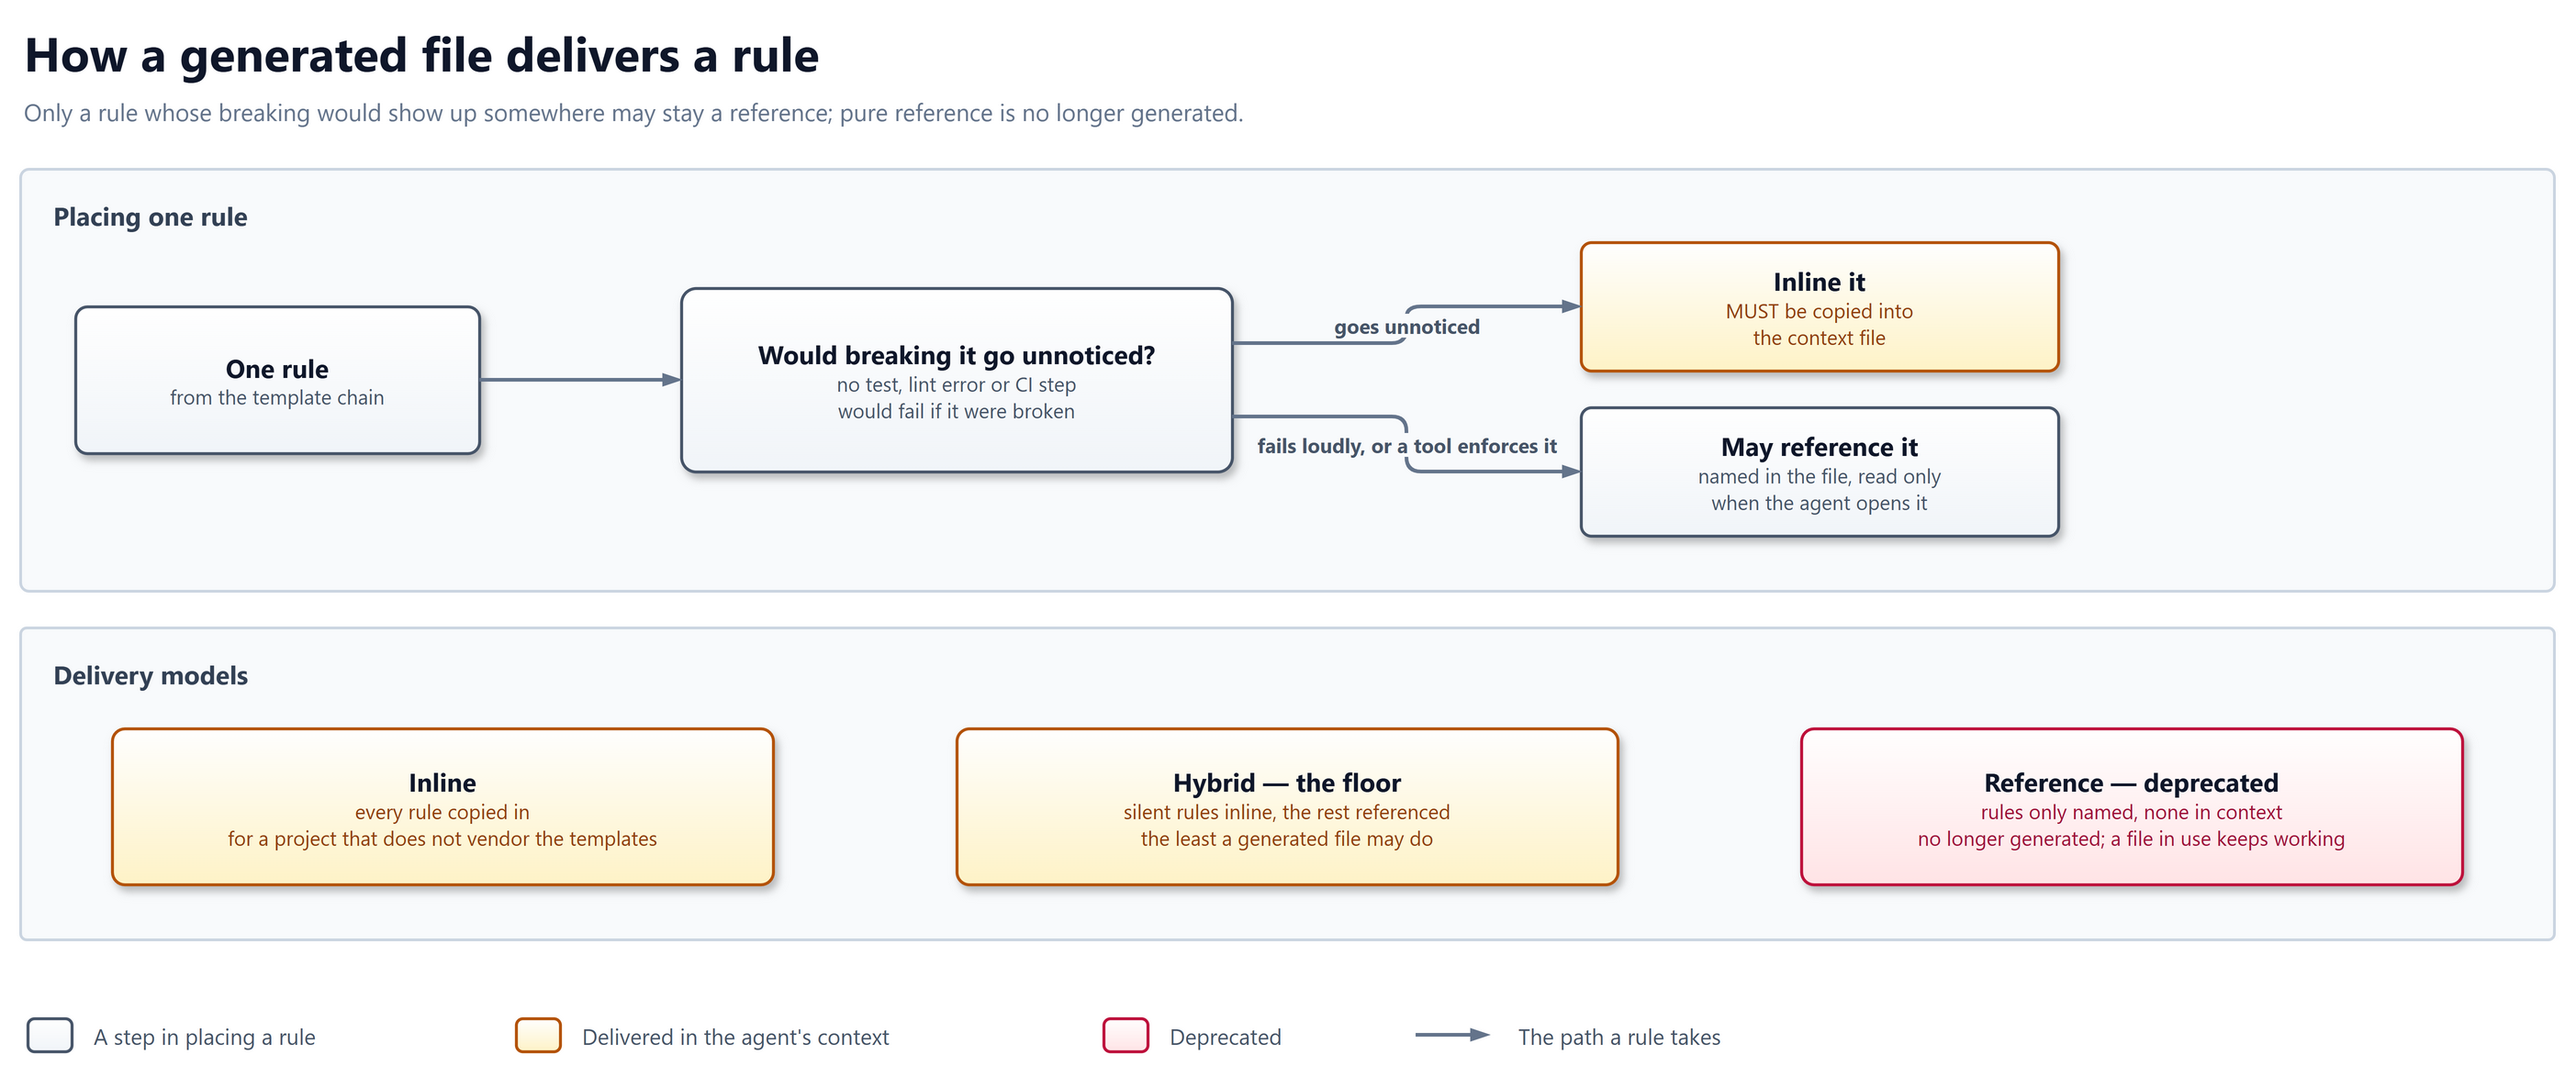
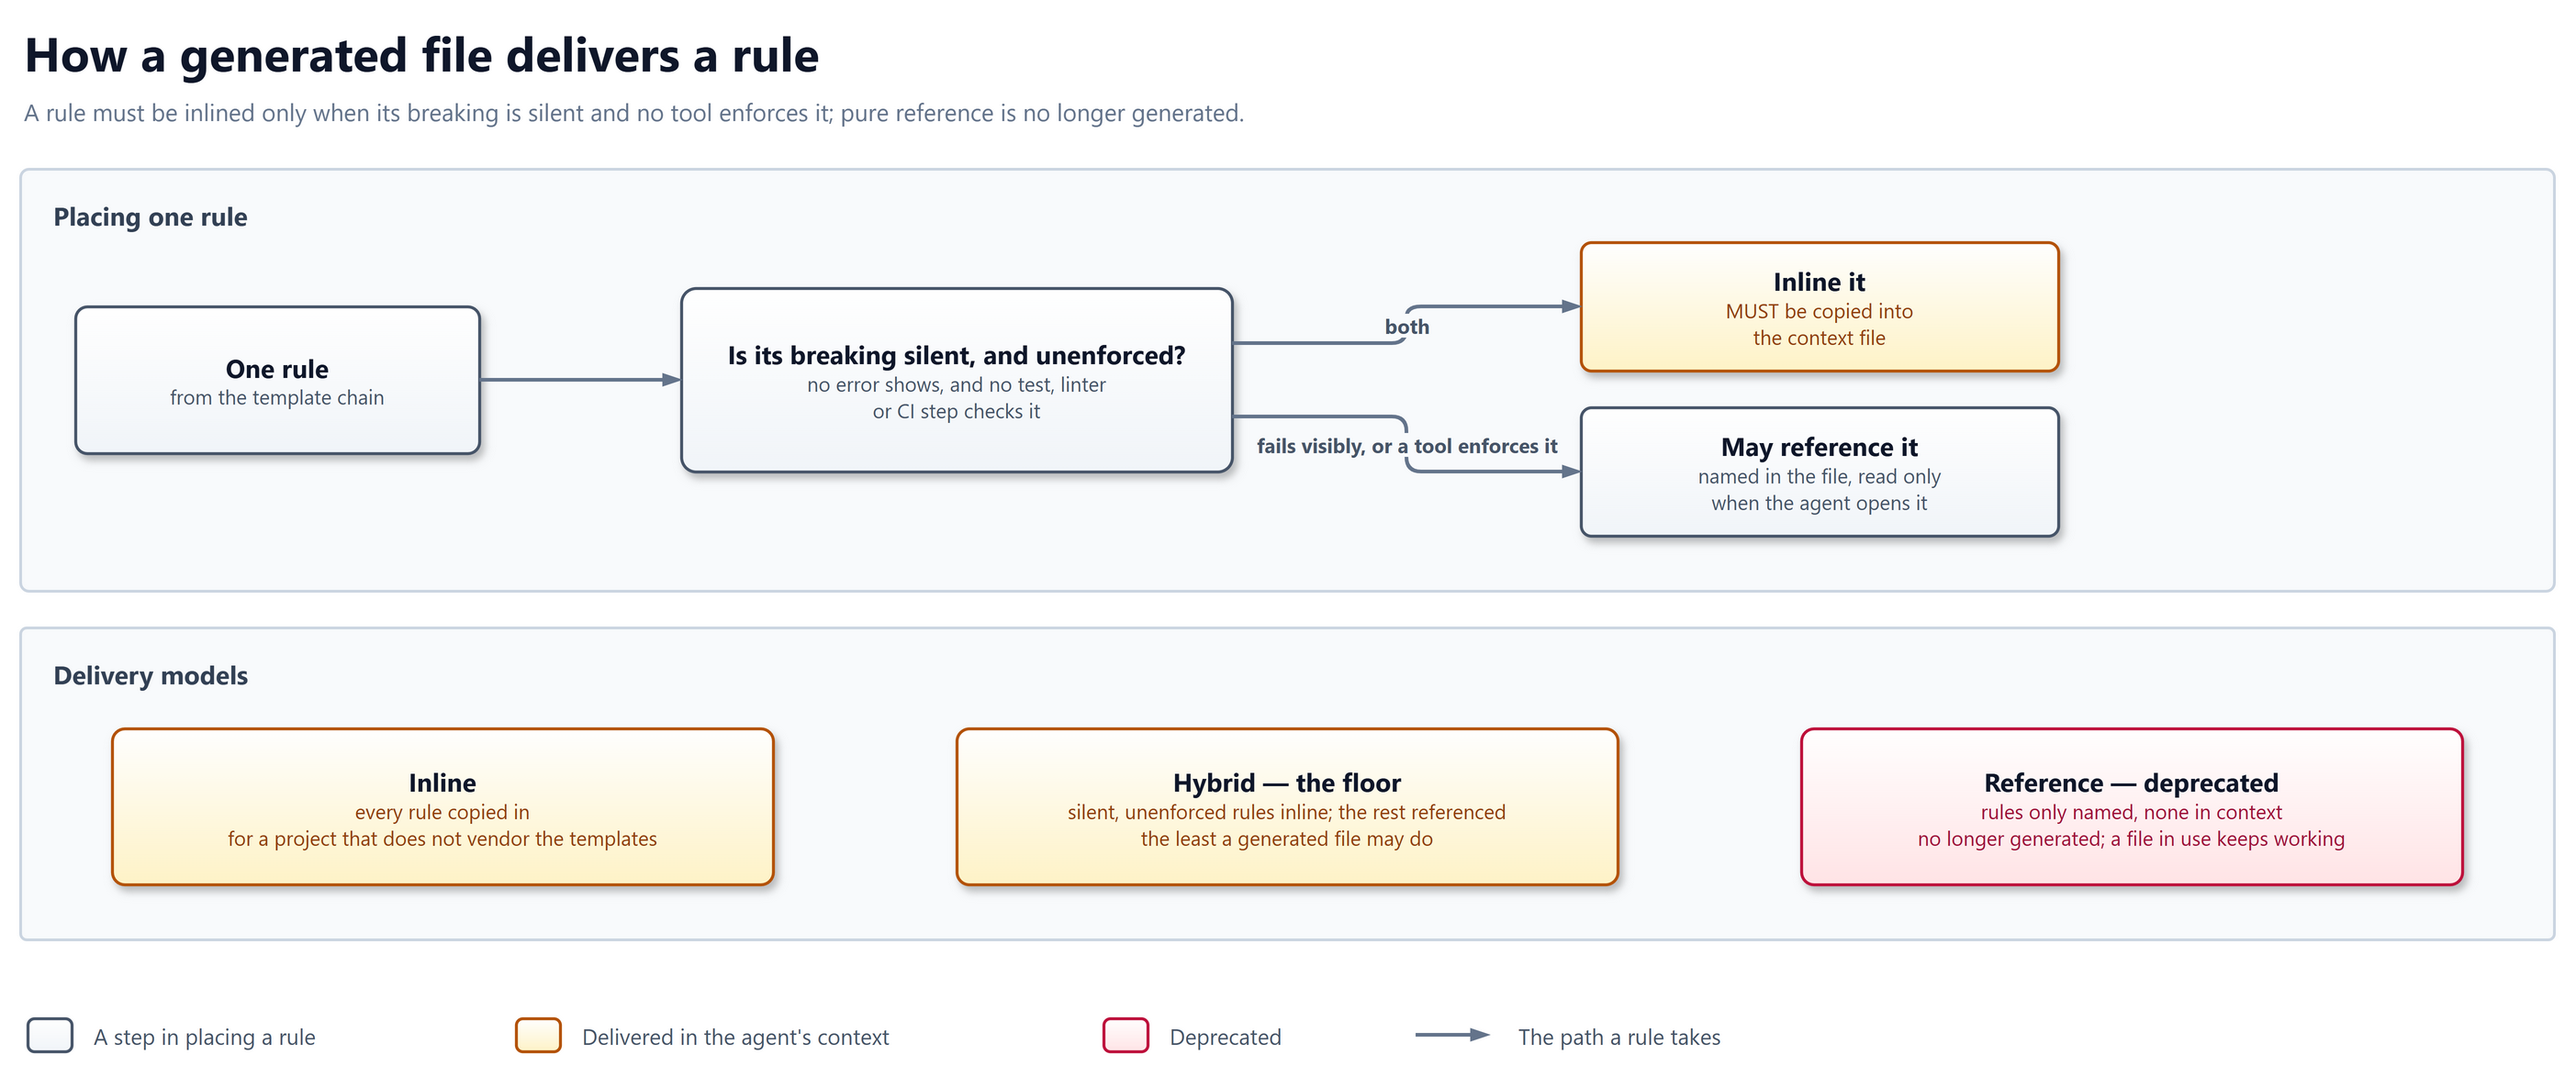
docs(decisions): cite ADR-052's probe figures from the rescore, and state one placement rule
The probe figures came from the score.py rescore, not from the round-4
report the record cited, and only two of three trials read. Rule 2 now
requires inlining only when breaking is silent and no tool enforces it,
matching rule 3, the table and the diagram.

diff --git a/docs/decisions/052-hybrid-is-the-delivery-floor.md b/docs/decisions/052-hybrid-is-the-delivery-floor.md
@@ -21,15 +21,15 @@ three, and `agents.md` recommends hybrid without ruling reference out.
 | No loading mechanism | A referenced template is not loaded at startup, on relevance, or by any cue. It is read only when the agent decides to open it (#712) |
 | A consumer it failed | Under a reference-model file, a project's agent never opened the deferred templates across a session of git, testing and review work. A type-check gate that lived only there was missed and CI went red, and the defer list itself drifted unnoticed (#712) |
 | Adherence | In round 3 hybrid adhered to the project's conventions best of every arm: +21.6 pp against no file, where the short inline file read +11.1 pp (#1893) |
-| Security under a thin spec | In round 4, with a spec that states the contract and not the defences, hybrid scored highest of every arm on the judge's security and data-protection rows. Rescored with the secret key the spec had omitted, its security probes read 0.82 to 1.00 (`docs/audits/2026-10-17-round-4.md`) |
+| Security under a thin spec | In round 4, with a spec that states the contract and not the defences, hybrid scored highest of every arm on the judge's security and data-protection rows (`docs/audits/2026-10-17-round-4.md`). Rescored with the secret key the spec had omitted, two of its three trials read 0.82 and 1.00 on the security probes; the third was not measured (`rounds/2026-10-16-thin-sensitivity/score-py` in `braboj/tariff-runs`) |
 | A cost of length | Under a weaker model in round 4, every template file but the hand-written one lowered task success against no file |
 | A gap in the evidence | No round has run a reference-only arm, so the benchmark has not compared reference with hybrid directly |
 
 ## Decision
 
 A generated context file delivers rules inline or hybrid, never by reference
-alone: a rule whose breaking would go unnoticed is inlined, and only a rule
-that fails loudly or is enforced by a tool may stay a reference.
+alone: a rule whose breaking is silent and that no tool enforces is inlined,
+and any other rule may stay a reference.
 
 ## Rationale
 
@@ -37,8 +37,8 @@ that fails loudly or is enforced by a tool may stay a reference.
   reference is a rule the agent may never read; the consumer failure shows
   the cost lands where nothing catches it.
 - Placement by damage and enforcement keeps every rule an agent must not miss
-  in context, while a rule a test, linter or CI step will catch can stay
-  outside it and keep the file short.
+  in context, while a rule whose breaking shows itself, or that a test,
+  linter or CI step checks, can stay outside it and keep the file short.
 - Hybrid is the arm the benchmark reads best on adherence and on security, so
   making it the floor moves generation towards the measured result rather
   than away from it.
@@ -47,14 +47,15 @@ that fails loudly or is enforced by a tool may stay a reference.
 
 ## Design
 
-![How one rule is placed: if breaking it would go unnoticed, with no test, linter or CI step to fail, it is inlined; otherwise it may be referenced. Inline and hybrid remain; pure reference is deprecated](../diagrams/delivery-model.png)
+![How one rule is placed: if breaking it is silent and no test, linter or CI step enforces it, it is inlined; if it fails visibly or a tool enforces it, it may be referenced. Inline and hybrid remain; pure reference is deprecated](../diagrams/delivery-model.png)
 
 1. **The floor** — Generation MUST NOT produce a file that delivers its
    rules by reference alone. Inline and hybrid remain.
-2. **Inline the silent rules** — A rule whose breaking produces no failing
-   test, lint error or CI step MUST be inlined.
-3. **Reference only what fails loudly** — A rule a tool enforces, or whose
-   breaking fails visibly, MAY be referenced instead of inlined.
+2. **Inline the silent, unenforced rules** — A rule MUST be inlined when its
+   breaking is silent, showing no error to the agent or the user, and no
+   test, linter or CI step enforces it.
+3. **Reference the rest** — A rule whose breaking fails visibly, or that a
+   test, linter or CI step enforces, MAY be referenced instead of inlined.
 4. **Where the rubric lives** — `agents.md` states the rubric, and the
    interview applies it; neither offers the reference model.
 5. **Length is a cost, not a cap** — Inlining SHOULD stop at the rules rule 2
@@ -63,7 +64,7 @@ that fails loudly or is enforced by a tool may stay a reference.
 | Breaking the rule... | Enforced by a tool | Not enforced by a tool |
 | -------------------- | ------------------ | ---------------------- |
 | fails visibly | MAY reference | MAY reference |
-| goes unnoticed | MAY reference | MUST inline |
+| is silent | MAY reference | MUST inline |
 
 ## Alternatives considered
 
